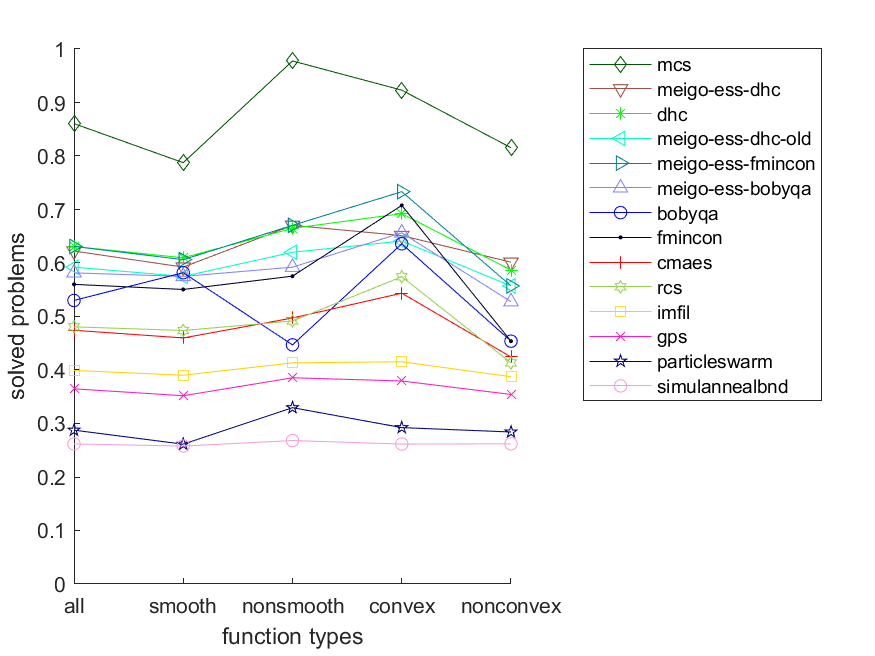
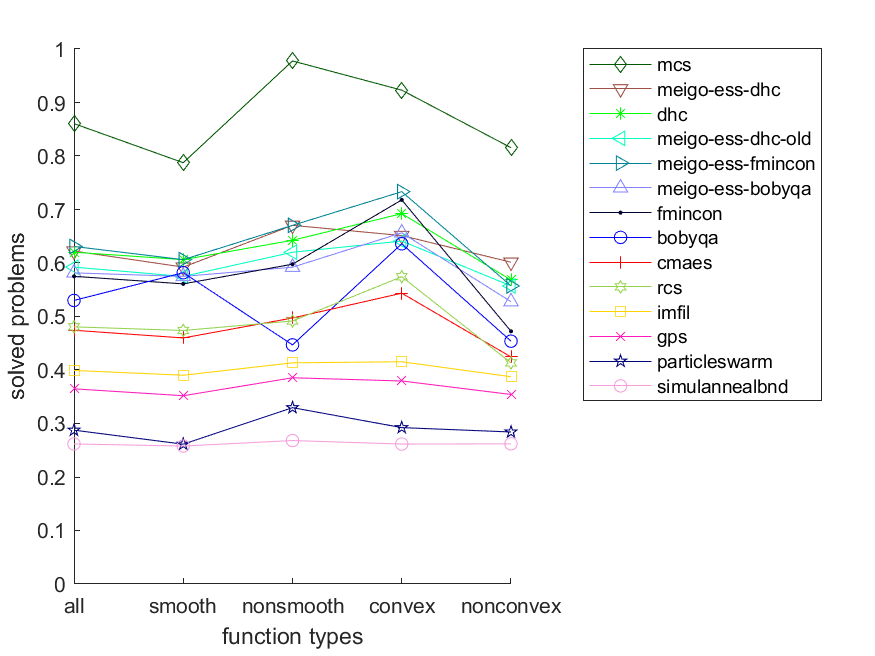
use latin hypercube

diff --git a/tests_sysbio/test_cr.m b/tests_sysbio/test_cr.m
@@ -4,11 +4,11 @@ close all;
 
 % parameters_meigo = test('meigo-ess',10,1000);
 % parameters_fmincon = test('fmincon',10,1000);
-% parameters_dhc = test('dhc',10,1000);
+parameters_dhc = test('dhc',20,1000);
 % parameters_rcs = test('rcs',10,1000);
 % parameters_mcs = test('mcs',10,1000);
 % parameters_pswarm = test('pswarm',10,1000);
-parameters_direct = test('direct',10,10000);
+% parameters_direct = test('direct',10,10000);
 
 function [parameters_res] =  test(solver,nStarts,maxFunEvals)
 
@@ -62,7 +62,7 @@ objectiveFunction = @(theta) logLikelihoodCR(theta, t, y, sigma2, 'log');
 % some of its properties are set accordingly.
 
 % Optimization
-parameters_res = runMultiStarts(objectiveFunction, nStarts, maxFunEvals, solver, nPar, lb, ub);
+parameters_res = runMultiStarts(objectiveFunction, nStarts, maxFunEvals, solver, nPar, lb, ub,false);
 printResultParameters(parameters_res);
 save(['test_cr_' solver '_' num2str(nStarts) '_' num2str(maxFunEvals)],'parameters_res');
 
@@ -109,11 +109,13 @@ switch solver
         error('solver not recognized');
 end
 if ~strcmp(solver,'meigo-ess')
-%     options.localOptimizerOptions.MaxFunctionEvaluations = numevals;
-%     options.localOptimizerOptions.MaxFunEvals   = numevals;
-%     options.localOptimizerOptions.MaxIterations = numevals;
+    options.localOptimizerOptions.MaxFunctionEvaluations = numevals;
+    options.localOptimizerOptions.MaxFunEvals   = numevals;
+    options.localOptimizerOptions.MaxIterations = numevals;
     options.localOptimizerOptions.MaxIter       = numevals;
     options.localOptimizerOptions.MaxObj        = numevals;
+    options.localOptimizerOptions.OutputFcn = @outfun;
+%     options.localOptimizerOptions.Display = 'debug';
 %     options.localOptimizerOptions.GradObj='off';
     % options.localOptimizerOptions.Display = 'off';
 else

diff --git a/tests_testfunction/createExercises.m b/tests_testfunction/createExercises.m
@@ -47,7 +47,7 @@ function [ cell_exercises ] = createExercises( solver, maxFunEvals, nStarts, boo
             for jDim = 1:C.nDims
                 dim = C.arr_dims(jDim);
                 [lb,ub,xbst] = TF.f_getVectors(problem,dim);
-                x0s = createUniformRandomPoints(lb,ub,nStarts);
+                x0s = createRandomPoints(lb,ub,nStarts);
                 for jStart = 1:nStarts
                     index = index + 1;
                     cell_exercises{index} = Exercise(problem.name,problem.fun,dim,lb,ub,problem.fbst,xbst,problem.smooth,problem.convex,problem.unimodal,solver,x0s(:,jStart),maxFunEvals);
@@ -60,7 +60,7 @@ function [ cell_exercises ] = createExercises( solver, maxFunEvals, nStarts, boo
             problem = list_fixeddim{jTf};
             dim = problem.dim;
             [lb,ub,xbst] = TF.f_getVectors(problem,dim);
-            x0s = createUniformRandomPoints(lb,ub,nStarts);
+            x0s = createRandomPoints(lb,ub,nStarts);
             for jStart = 1:nStarts
                 index = index + 1;
                 cell_exercises{index} = Exercise(problem.name,problem.fun,dim,lb,ub,problem.fbst,xbst,problem.smooth,problem.convex,problem.unimodal,solver,x0s(:,jStart),maxFunEvals);

diff --git a/algorithms/PSwarmM_v2_1/PenaltyEval.m b/algorithms/PSwarmM_v2_1/PenaltyEval.m
@@ -89,7 +89,7 @@ end
 
 % Compute objective function value for remaining points
 if(~isempty(FeasibleLinearIdx))
-    try
+%     try
         ObjValue(FeasibleLinearIdx)=feval(Problem.ObjFunction, PointsEval, varargin{:});
         % update counter
         Problem.Stats.RealObjFunCounter=Problem.Stats.RealObjFunCounter+NPoints;
@@ -100,12 +100,12 @@ if(~isempty(FeasibleLinearIdx))
                     InsertCache(Problem,PointsEval(:,i),ObjValue(FeasibleLinearIdx(i)),step);
             end
         end
-        
-    catch
-        error('pswarm:ObjectiveError', ...
-            ['Cannot continue because user supplied objective function' ...
-            ' failed with the following error:\n%s'], lasterr)
-    end
+        % for tests, disable error catching
+%     catch
+%         error('pswarm:ObjectiveError', ...
+%             ['Cannot continue because user supplied objective function' ...
+%             ' failed with the following error:\n%s'], lasterr)
+%     end
 end
 
 return;

diff --git a/tests_testfunction/createRandomPoints.m b/tests_testfunction/createRandomPoints.m
@@ -1,0 +1,14 @@
+function [ x0s ] = createRandomPoints( lb, ub, num )
+% create latin hypercube points
+
+dim = length(lb);
+
+x0s = zeros(dim,num);
+for j=1:num
+    x0s(:,j) = lb + rand(dim,1).*(ub-lb);
+end
+
+x0s = bsxfun(@plus,lb,bsxfun(@times,ub-lb,lhsdesign(num,dim,'smooth','off')'));
+
+end
+

diff --git a/tests_testfunction/scriptTests.m b/tests_testfunction/scriptTests.m
@@ -1,0 +1,9 @@
+solvers_local = C.cell_solvers_local;
+for j = 1:length(solvers_local)
+    runTests(solvers_local{j},2000,20,false);
+    clear;
+end
+solvers_global = C.cell_solvers_global;
+for j = 1:length(solvers_global)
+    runTests(solvers_global{j},2000,20,false);
+end
